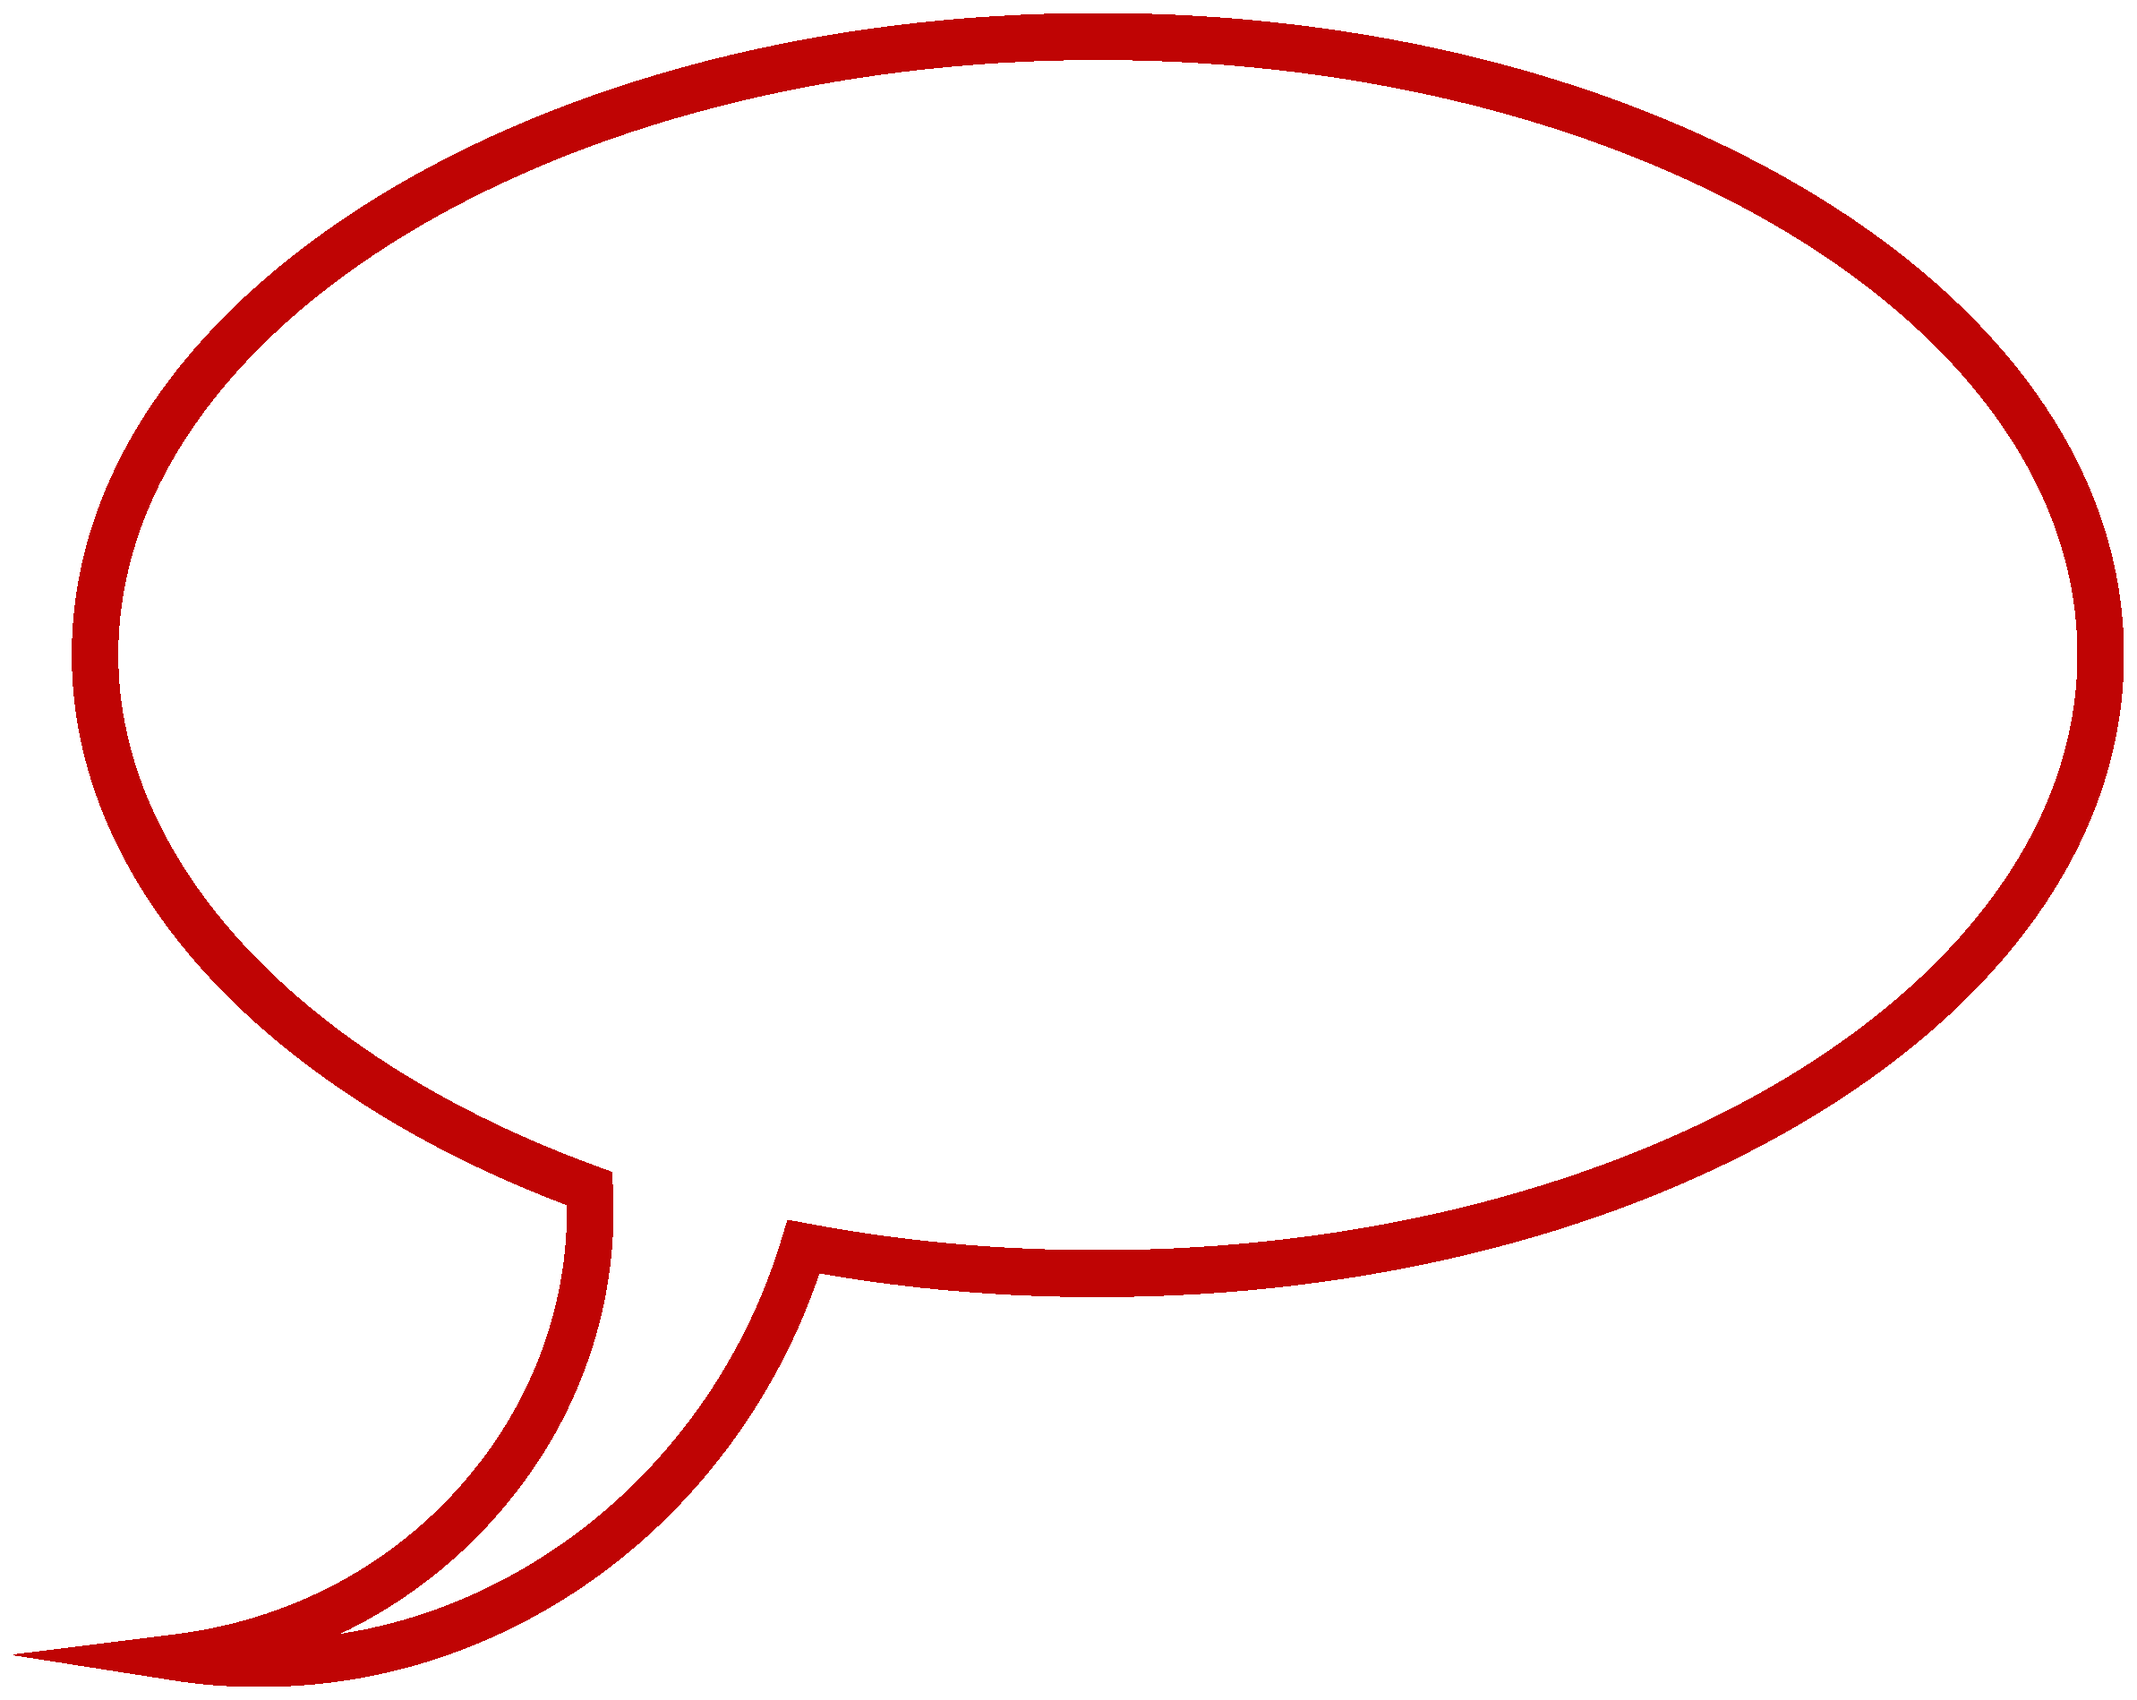
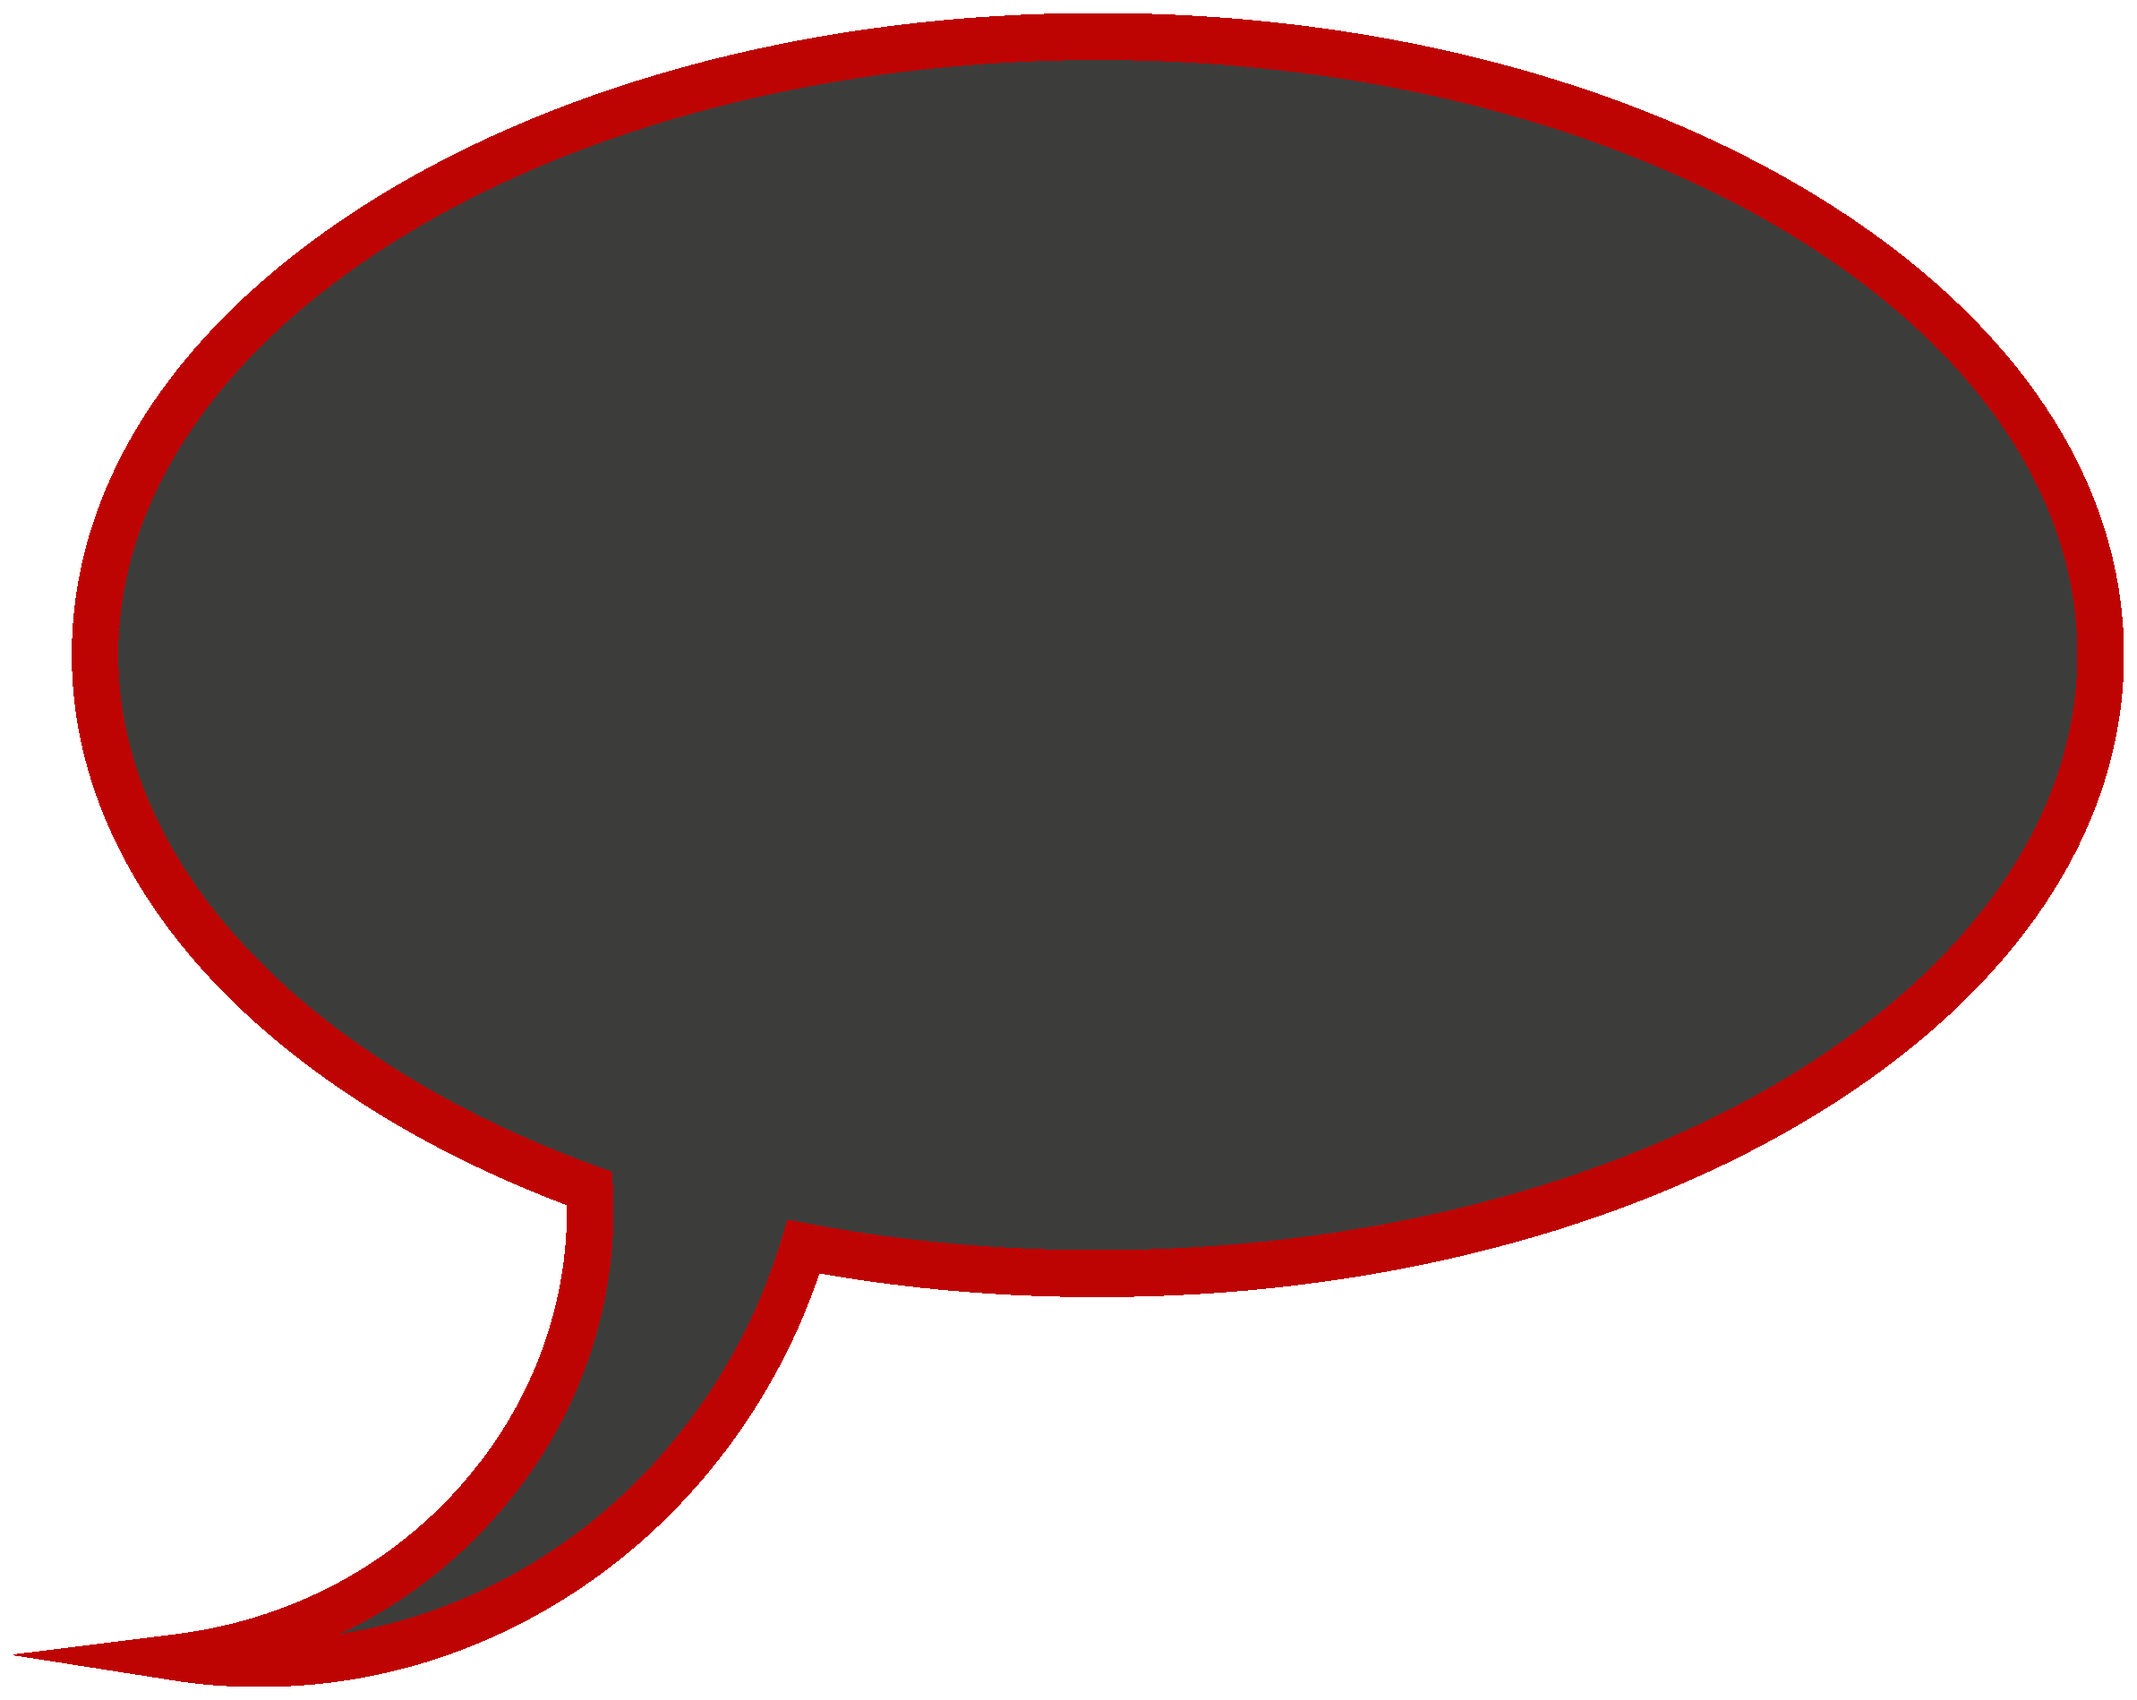
bulle color

diff --git a/frontend/src/App.scss b/frontend/src/App.scss
@@ -96,8 +96,9 @@ body {
 
 .returnMap {
   position: absolute;
-  top: 1rem;
+  top: 2.5rem;
   right: 1rem;
+  font-size: 1rem;
 }
 .returnHome {
   position: absolute;
@@ -265,11 +266,12 @@ button {
   }
 }
 .trashtalk {
-  background-image: url(./assets/bule.png);
+  background-image: url(./assets/bulle.png);
   padding: 3rem;
-  padding-top: 1rem;
+  padding-top: 2rem;
   padding-bottom: 2rem;
   background-size: 100% 100%;
+  color: $main-color;
 }
 
 .buttonGame {
@@ -302,6 +304,10 @@ button {
   .infoQuizz {
     display: initial;
   }
+  .returnMap{
+    font-size: 2rem;
+    top: 0.5rem
+  }
   .buttonTemple {
     width: 3rem;
     height: 3rem;
@@ -314,10 +320,8 @@ button {
   }
   .trashtalk {
     background-image: url(./assets/bule.png);
-    padding: 3rem;
     padding-top: 1rem;
-    padding-bottom: 2rem;
-    background-size: 100% 100%;
+    color: $secondary-color
   }
   .yokai {
     img {
